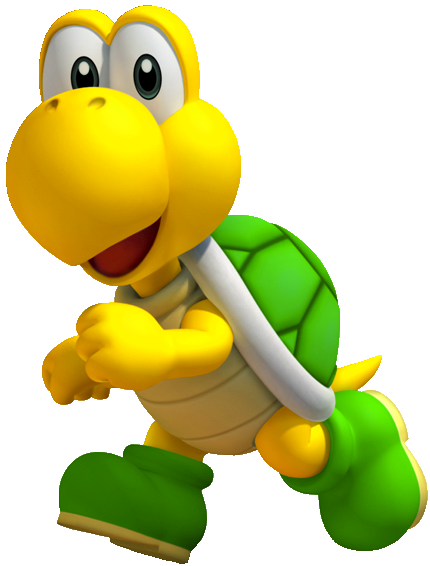
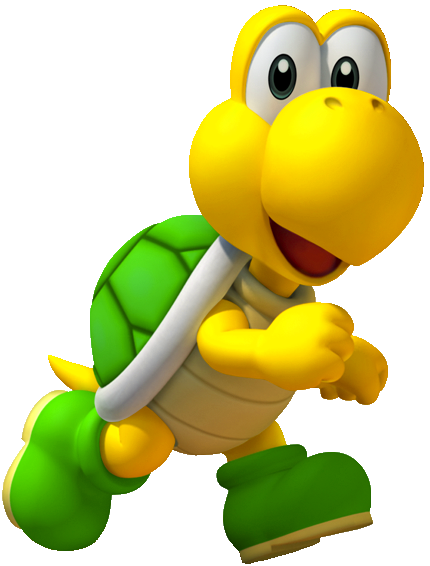
Fixed Image Orientations

diff --git a/src/interpreter/InstructionClassifier.java b/src/interpreter/InstructionClassifier.java
@@ -7,7 +7,7 @@ import java.util.Map.Entry;
 import java.util.regex.Pattern;
 
 import instruction.*;
-import util.ResourceToList;
+import util.ResourceToListUtil;
 /**
  * This class performs the reflection necessary to produce instances of each
  * command type without direct statement of the desired class type. This class
@@ -184,9 +184,9 @@ public class InstructionClassifier {
 		mySyntaxList = new ArrayList<Entry<String, Pattern>>();
 		myLanguageList = new ArrayList<Entry<String, Pattern>>();
 		myPathsList = new ArrayList<Entry<String,Pattern>>();
-		ResourceToList.addTerms(mySyntax, mySyntaxList);
-		ResourceToList.addTerms(myLanguage, myLanguageList);
-		ResourceToList.addTerms(myPaths, myPathsList);
+		ResourceToListUtil.addTerms(mySyntax, mySyntaxList);
+		ResourceToListUtil.addTerms(myLanguage, myLanguageList);
+		ResourceToListUtil.addTerms(myPaths, myPathsList);
 	}
 	public String getMyLanguage() {
 		return myLanguage;

diff --git a/src/interpreter/TreeBuilder.java b/src/interpreter/TreeBuilder.java
@@ -5,7 +5,7 @@ import java.util.List;
 import java.util.Set;
 
 import instruction.InstructionData;
-import util.ArgumentReader;
+import util.ArgumentReaderUtil;
 import util.Pair;
 /**
  * Builds a tree of InstructionNodes for
@@ -88,7 +88,7 @@ public class TreeBuilder {
 		if(brackets==null){
 			int numArgs = 0;
 			if(!classification.equals("NO MATCH")){
-				numArgs = ArgumentReader.getNumArgs(classification, data);
+				numArgs = ArgumentReaderUtil.getNumArgs(classification, data);
 			}
 			if(classification.equals("Variable")){
 				
@@ -96,7 +96,7 @@ public class TreeBuilder {
 			
 			if(!classification.equals("NO MATCH")){
 				//TODO: Remove assumption of constant default
-				numArgs = ArgumentReader.getNumArgs(classification, data);
+				numArgs = ArgumentReaderUtil.getNumArgs(classification, data);
 				if(numArgs == -1){
 					try{
 						numArgs = 0;

diff --git a/src/main/LogoController.java b/src/main/LogoController.java
@@ -72,11 +72,6 @@ public class LogoController implements Observer
 		List<Function> funcList = new ArrayList<>();
 		functions = FXCollections.observableList(funcList);
 
-		//Try this if workspace doesn't update
-//		SimpleObjectProperty<ObservableList<Variable>> vars = new SimpleObjectProperty<>(variables);
-//		((TableView<Variable>) ((BorderPane) workspace.display()).getCenter()).itemsProperty().bind(vars);
-		
-
 		workspace.setItems(variables);
 		// TODO: Add functions to the workspace
 
@@ -117,10 +112,6 @@ public class LogoController implements Observer
 
 			// Do if command is valid
 			inputBox.updateData(input);
-
-			// Do if a variable is created
-			// workspace.setItems(variables);
-
 
 		}
 

diff --git a/src/util/ArgumentReaderUtil.java b/src/util/ArgumentReaderUtil.java
@@ -10,8 +10,9 @@ import instruction.InstructionData;
  *
  */
 
-public class ArgumentReader
+public final class ArgumentReaderUtil
 {
+	private ArgumentReaderUtil(){}
 	public static String NUM_ARGS = "resources/interpreter/NumArgs";
 
 	public static int getNumArgs(String instructionType, InstructionData data){
@@ -19,7 +20,7 @@ public class ArgumentReader
 		if(data.containsFunction(instructionType) != null){ //user-defined function
 			return data.containsFunction(instructionType).getArgs().size();
 		}
-		int numArgs = ResourceToList.getNumericalTerm(NUM_ARGS, instructionType);
+		int numArgs = ResourceToListUtil.getNumericalTerm(NUM_ARGS, instructionType);
 		return numArgs;
 	}
 

diff --git a/src/util/ResourceToListUtil.java b/src/util/ResourceToListUtil.java
@@ -15,7 +15,8 @@ import java.util.regex.Pattern;
  *
  */
 
-public class ResourceToList {
+public final class ResourceToListUtil {
+	private ResourceToListUtil(){}
 
 	public static void addTerms(String resource, List<Entry<String, Pattern>> list) {
 		ResourceBundle resources = ResourceBundle.getBundle(resource);

diff --git a/src/testers/ArgumentReaderTester.java b/src/testers/ArgumentReaderTester.java
@@ -1,6 +1,6 @@
 package testers;
 
-import util.ArgumentReader;
+import util.ArgumentReaderUtil;
 
 /**
  * Test argument reader
